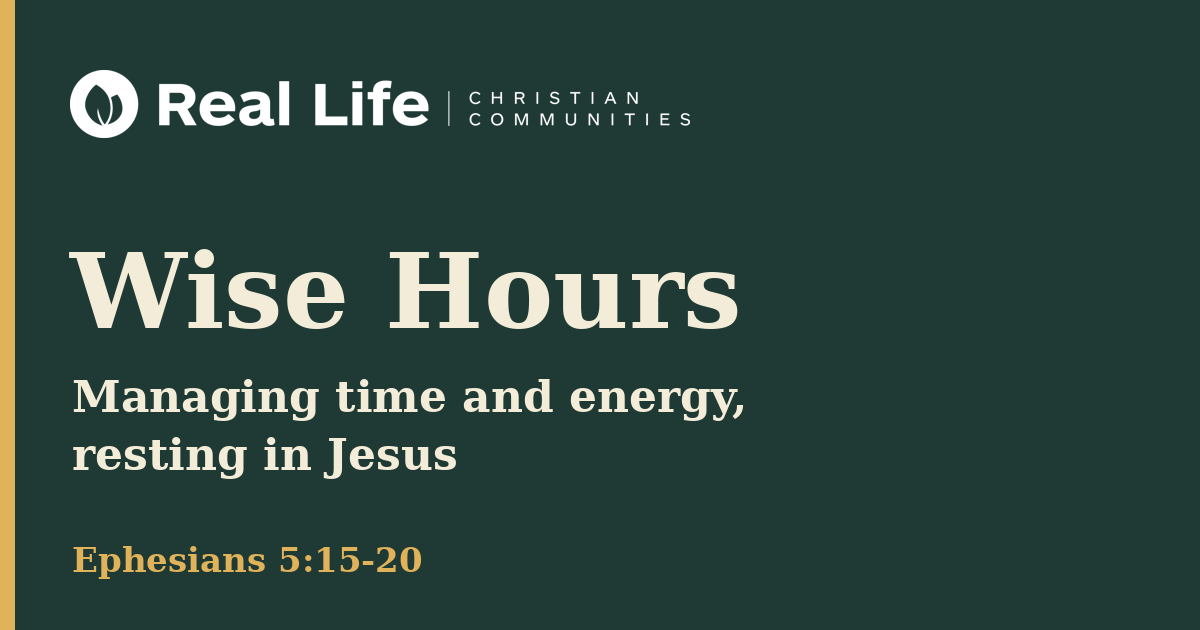
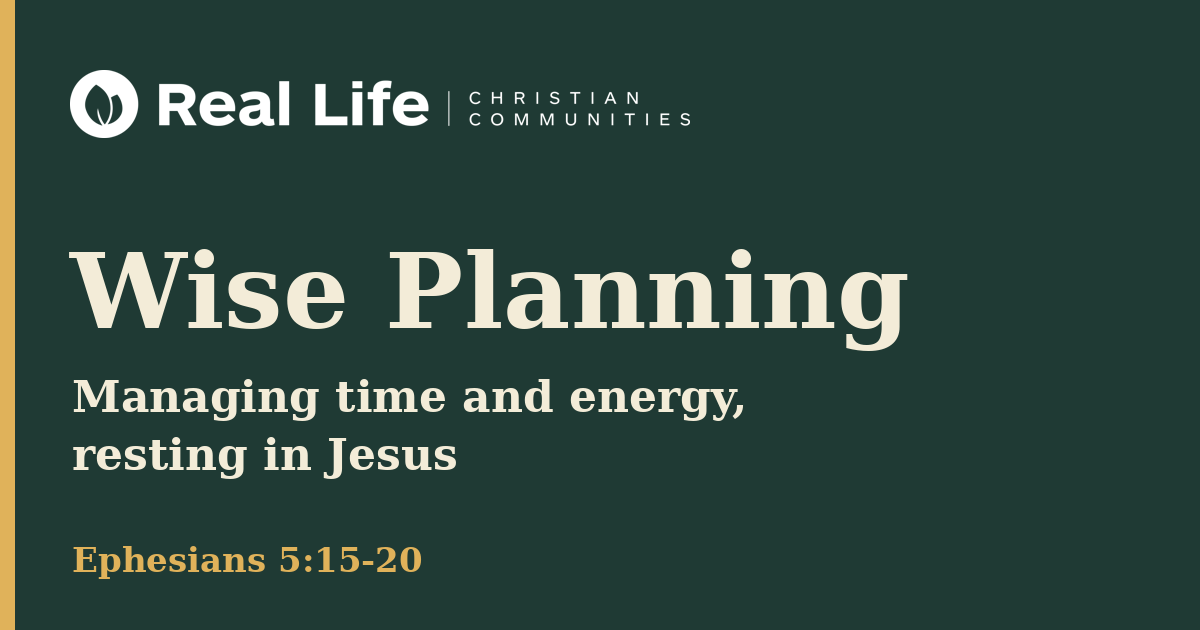
Add files via upload

Changed region(s): [[0.3392, 0.3921, 0.7708, 0.573]]

diff --git a/index.html b/index.html
@@ -2,7 +2,7 @@
 <html lang="en">
 <head>
 <meta charset="utf-8">
-<title>Wise Hours</title>
+<title>Wise Planning</title>
 <meta name="viewport" content="width=device-width, initial-scale=1, viewport-fit=cover">
 <meta name="theme-color" content="#1f3a34">
 <meta name="description" content="Learn to manage your time and energy wisely and rest in Jesus, based on Ephesians 5:15-20. Short lessons, case studies, and a weekly audit.">
@@ -11,15 +11,15 @@
 <link rel="apple-touch-icon" href="icons/apple-touch-icon.png">
 <meta property="og:type" content="website">
 <meta property="og:site_name" content="Real Life Christian Communities">
-<meta property="og:title" content="Wise Hours: Time and Energy, Resting in Jesus">
+<meta property="og:title" content="Wise Planning: Time and Energy, Resting in Jesus">
 <meta property="og:description" content="Short lessons, case studies, and a weekly audit based on Ephesians 5:15-20.">
 <meta property="og:url" content="https://rlccphil.github.io/wise-planning/">
 <meta property="og:image" content="https://rlccphil.github.io/wise-planning/og-image.png">
 <meta property="og:image:width" content="1200">
 <meta property="og:image:height" content="630">
-<meta property="og:image:alt" content="Wise Hours, a Real Life Christian Communities app on time and energy">
+<meta property="og:image:alt" content="Wise Planning, a Real Life Christian Communities app on time and energy">
 <meta name="twitter:card" content="summary_large_image">
-<meta name="twitter:title" content="Wise Hours: Time and Energy, Resting in Jesus">
+<meta name="twitter:title" content="Wise Planning: Time and Energy, Resting in Jesus">
 <meta name="twitter:description" content="Short lessons, case studies, and a weekly audit based on Ephesians 5:15-20.">
 <meta name="twitter:image" content="https://rlccphil.github.io/wise-planning/og-image.png">
 
@@ -61,7 +61,7 @@ nav button{flex:1;border:0;border-radius:0;background:none;padding:14px 4px;font
 </style>
 </head>
 <body>
-<header><div class="hd"><img src="logo.png" alt="RLCC logo" onerror="this.remove()"><div><h1>Wise Hours</h1><p>Time and energy, resting in Jesus · Ephesians 5:15–20</p></div></div></header>
+<header><div class="hd"><img src="logo.png" alt="RLCC logo" onerror="this.remove()"><div><h1>Wise Planning</h1><p>Time and energy, resting in Jesus · Ephesians 5:15–20</p></div></div></header>
 <main id="app"></main>
 <nav id="nav"></nav>
 <script>
@@ -161,7 +161,7 @@ document.getElementById('fb').innerHTML='<div class="fb">'+(o[2]?'✓ Wise choic
 function journal(){var ks=Object.keys(S.j).filter(function(k){return k.slice(-1)!='t'&&S.j[k]}),h='<h2>My journal</h2>';
 if(!ks.length)h+='<div class="card">Your reflections will appear here after you write in a lesson’s “Try it today” card.</div>';
 else{h+='<div class="card">';ks.forEach(function(k){h+='<div class="je"><small>Lesson '+k.slice(1)+'</small><div>'+esc(S.j[k])+'</div></div>'});h+='</div>'}
-h+='<div class="card sans"><b>Add to your home screen</b><br>On your phone, open the browser menu and choose “Add to Home Screen” to launch Wise Hours like an app. Your notes stay private on this device.</div><div class="verse">“Come to me, all who labor and are heavy laden, and I will give you rest.” Matthew 11:28</div>';app.innerHTML=h}
+h+='<div class="card sans"><b>Add to your home screen</b><br>On your phone, open the browser menu and choose “Add to Home Screen” to launch Wise Planning like an app. Your notes stay private on this device.</div><div class="verse">“Come to me, all who labor and are heavy laden, and I will give you rest.” Matthew 11:28</div>';app.innerHTML=h}
 if('serviceWorker' in navigator){addEventListener('load',function(){navigator.serviceWorker.register('sw.js').catch(function(){})})}
 render();
 </script>

diff --git a/sw.js b/sw.js
@@ -1,4 +1,4 @@
-const V='wise-hours-v1';
+const V='wise-planning-v2';
 const FILES=['./','index.html','manifest.json','logo.png','icons/icon-192.png','icons/icon-512.png','icons/apple-touch-icon.png','icons/favicon.png'];
 self.addEventListener('install',e=>{e.waitUntil(caches.open(V).then(c=>Promise.all(FILES.map(f=>c.add(f).catch(()=>{})))).then(()=>self.skipWaiting()))});
 self.addEventListener('activate',e=>{e.waitUntil(caches.keys().then(k=>Promise.all(k.filter(x=>x!==V).map(x=>caches.delete(x)))).then(()=>self.clients.claim()))});
